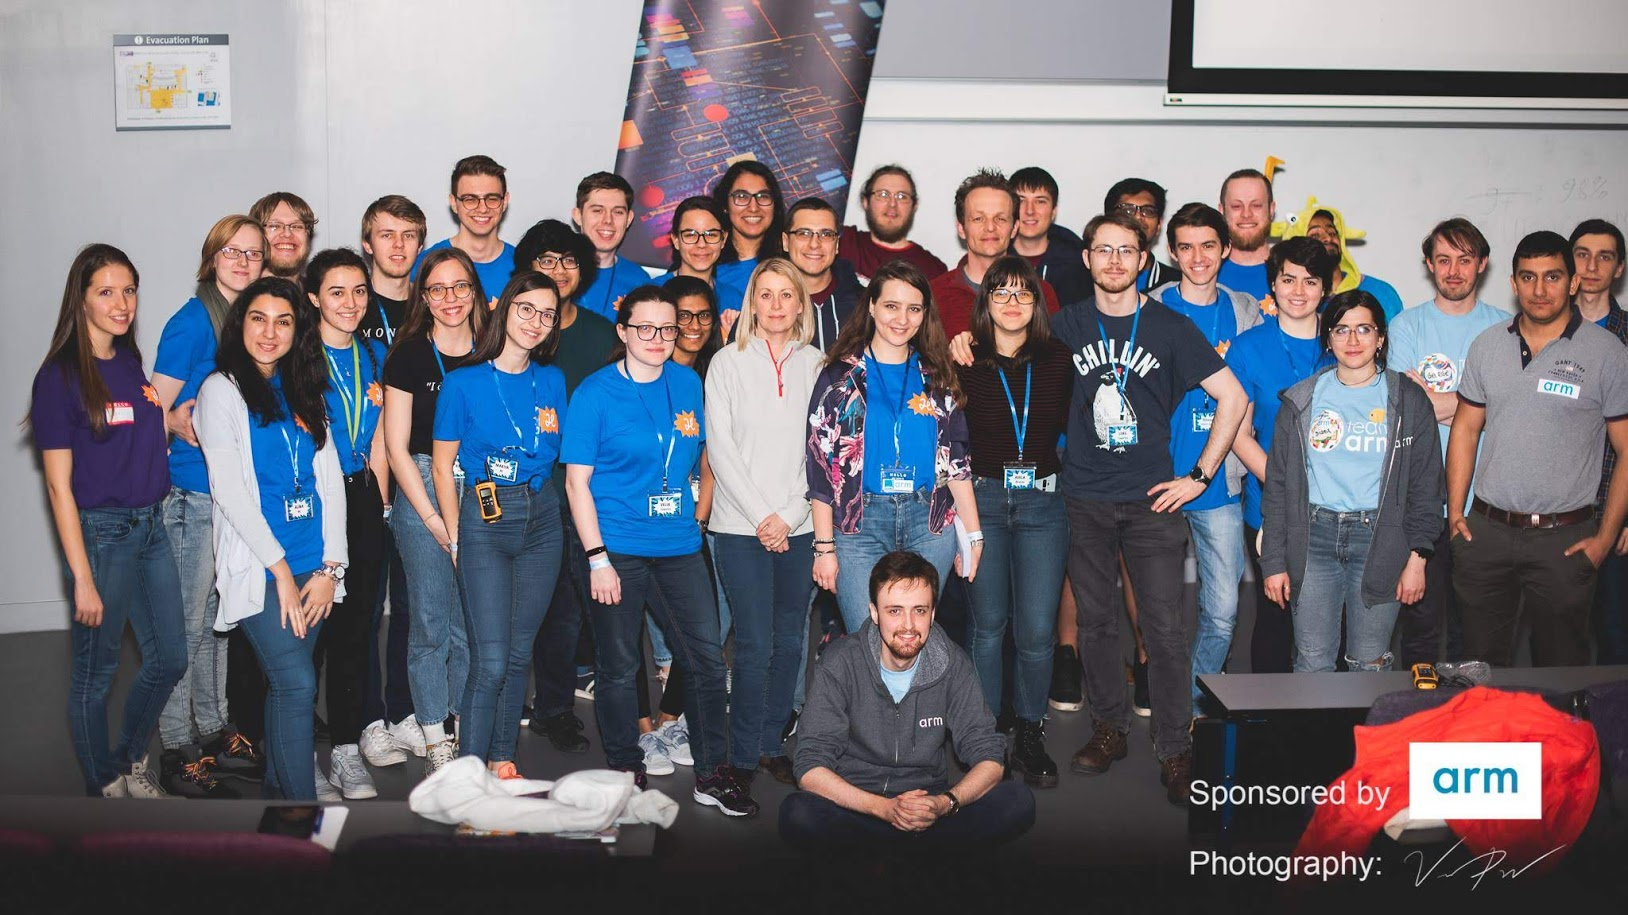
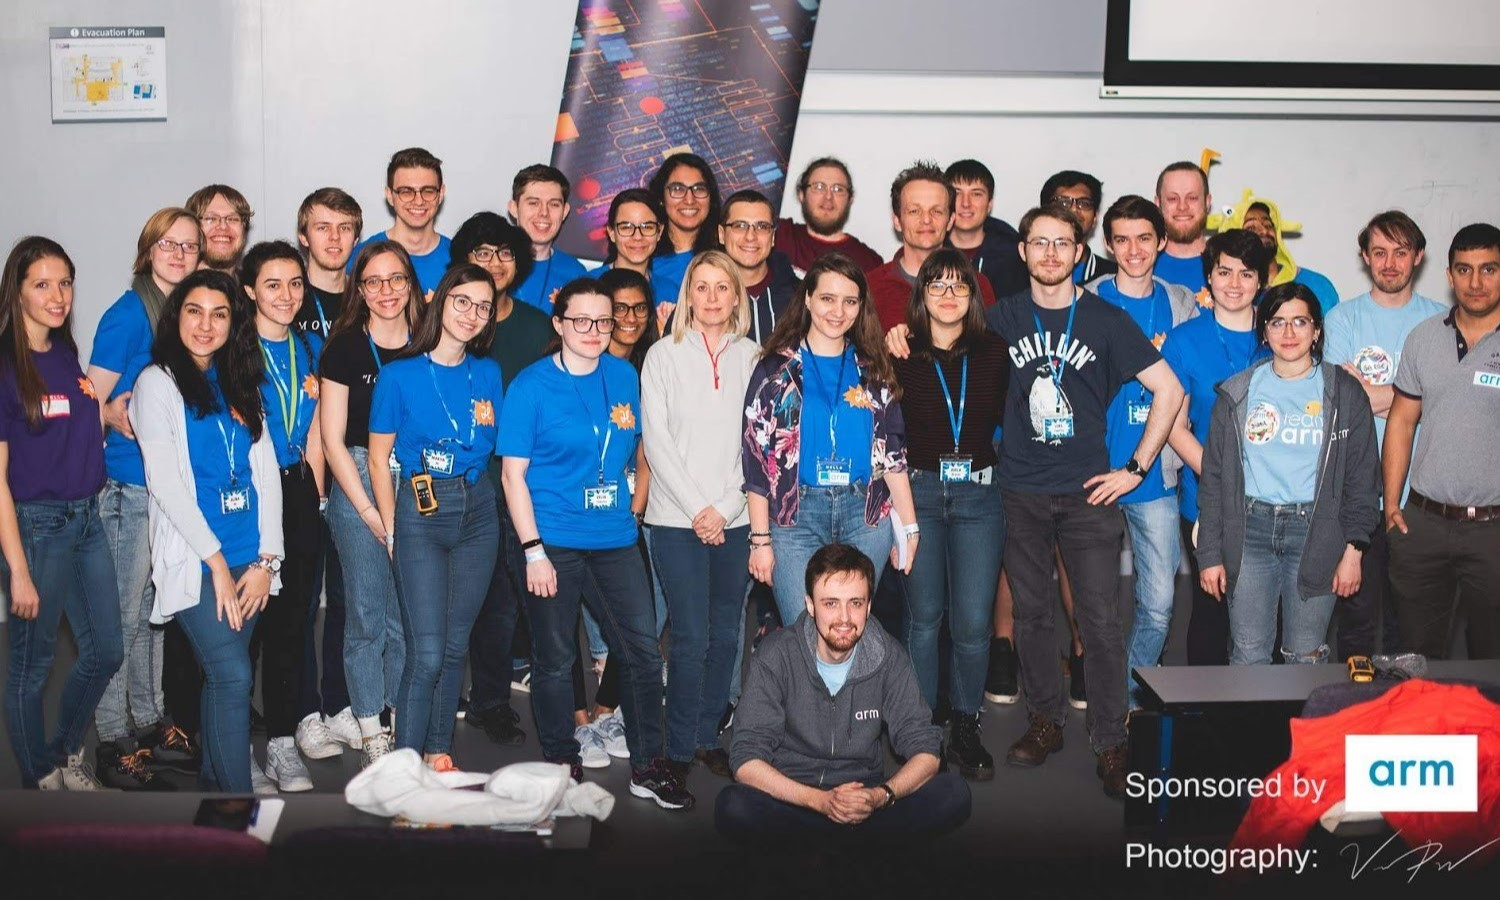
adjusted slideshow

diff --git a/src/home/Home.js b/src/home/Home.js
@@ -4,10 +4,9 @@ import '../font.css';
 import './Home.css';
 import aboutus from './aboutus/aboutus';
 import user from '../assets/user.png';
-// example pics
-import guh_2019 from '../assets/guh_2019.jpg';
-import sh_2019 from '../assets/sh_2019.jpg';
-import sh_2018 from '../assets/sh_2018.jpg';
+// example pics pls crop to 5:3 ratio
+import sh_2019 from '../assets/sh_2019_edit.png';
+import sh_2018 from '../assets/sh_2018_edit.png';
 import guh_sample from '../assets/guh_sample.jpg';
 
 const Header = styled.div`
@@ -56,31 +55,32 @@ export default class Home extends React.Component {
   render() {
     return (
       <div id="home-page">
-        <div className="section-black">
-          <div className="slideshow-container p-md-2 col-12">
+        <div className="section-black py-md-2">
+          <div className="slideshow-container col-12">
             <div id="slideshow" className="carousel slide" data-ride="carousel" data-interval="4000">
               <ol className="carousel-indicators">
                 <li data-target="#slideshow" data-slide-to="0" className="active"></li>
                 <li data-target="#slideshow" data-slide-to="1"></li>
                 <li data-target="#slideshow" data-slide-to="2"></li>
               </ol>
+
               <div className="carousel-inner">
-              <div class="carousel-caption d-block text-center">
-              <Header style={{ fontSize: '5em' }}>
-                Uni<span style={{ color: 'yellow' }}>CS</span>
-              </Header>
-              <h2 style={{ textAlign: 'center', color: 'white' }}>
-                University of Manchester
-              </h2>
-              <h2
-                style={{
-                  textAlign: 'center',
-                  color: 'white',
-                }}
-              >
-                Computer Science Society
-              </h2>
-              </div>
+                <div class="carousel-caption d-block text-center">
+                  <Header style={{ fontSize: '5em' }}>
+                    Uni<span style={{ color: 'yellow' }}>CS</span>
+                  </Header>
+                  <h2 style={{ textAlign: 'center', color: 'white' }}>
+                    University of Manchester
+                  </h2>
+                  <h2
+                    style={{
+                      textAlign: 'center',
+                      color: 'white',
+                    }}
+                  >
+                    Computer Science Society
+                  </h2>
+                </div>
                 <div className="carousel-item active">
                   <img className="d-inline-block w-100" src={sh_2018} alt="First slide"/>
                 </div>

diff --git a/src/home/Home.css b/src/home/Home.css
@@ -7,8 +7,7 @@ div.container {
 .section-purple {
   width: 100%;
   position: relative;
-  min-height: 50vh;
-  padding-bottom: 20px;
+  overflow-y:hidden;
 }
 
 .section-black {
@@ -51,12 +50,15 @@ div.container {
   text-align: center;
   width: 100%;
   position: relative;
+  max-height: 90vh;
+  padding: 5px;
+  overflow-y: hidden;
 }
 
 
 .carousel-caption{
-     background-color: black;
-     opacity: 0.7;
-     top: 50px;
-     bottom: auto;
+  background-color: black;
+  opacity: 0.7;
+  top: 50px;
+  bottom: auto;
 }
